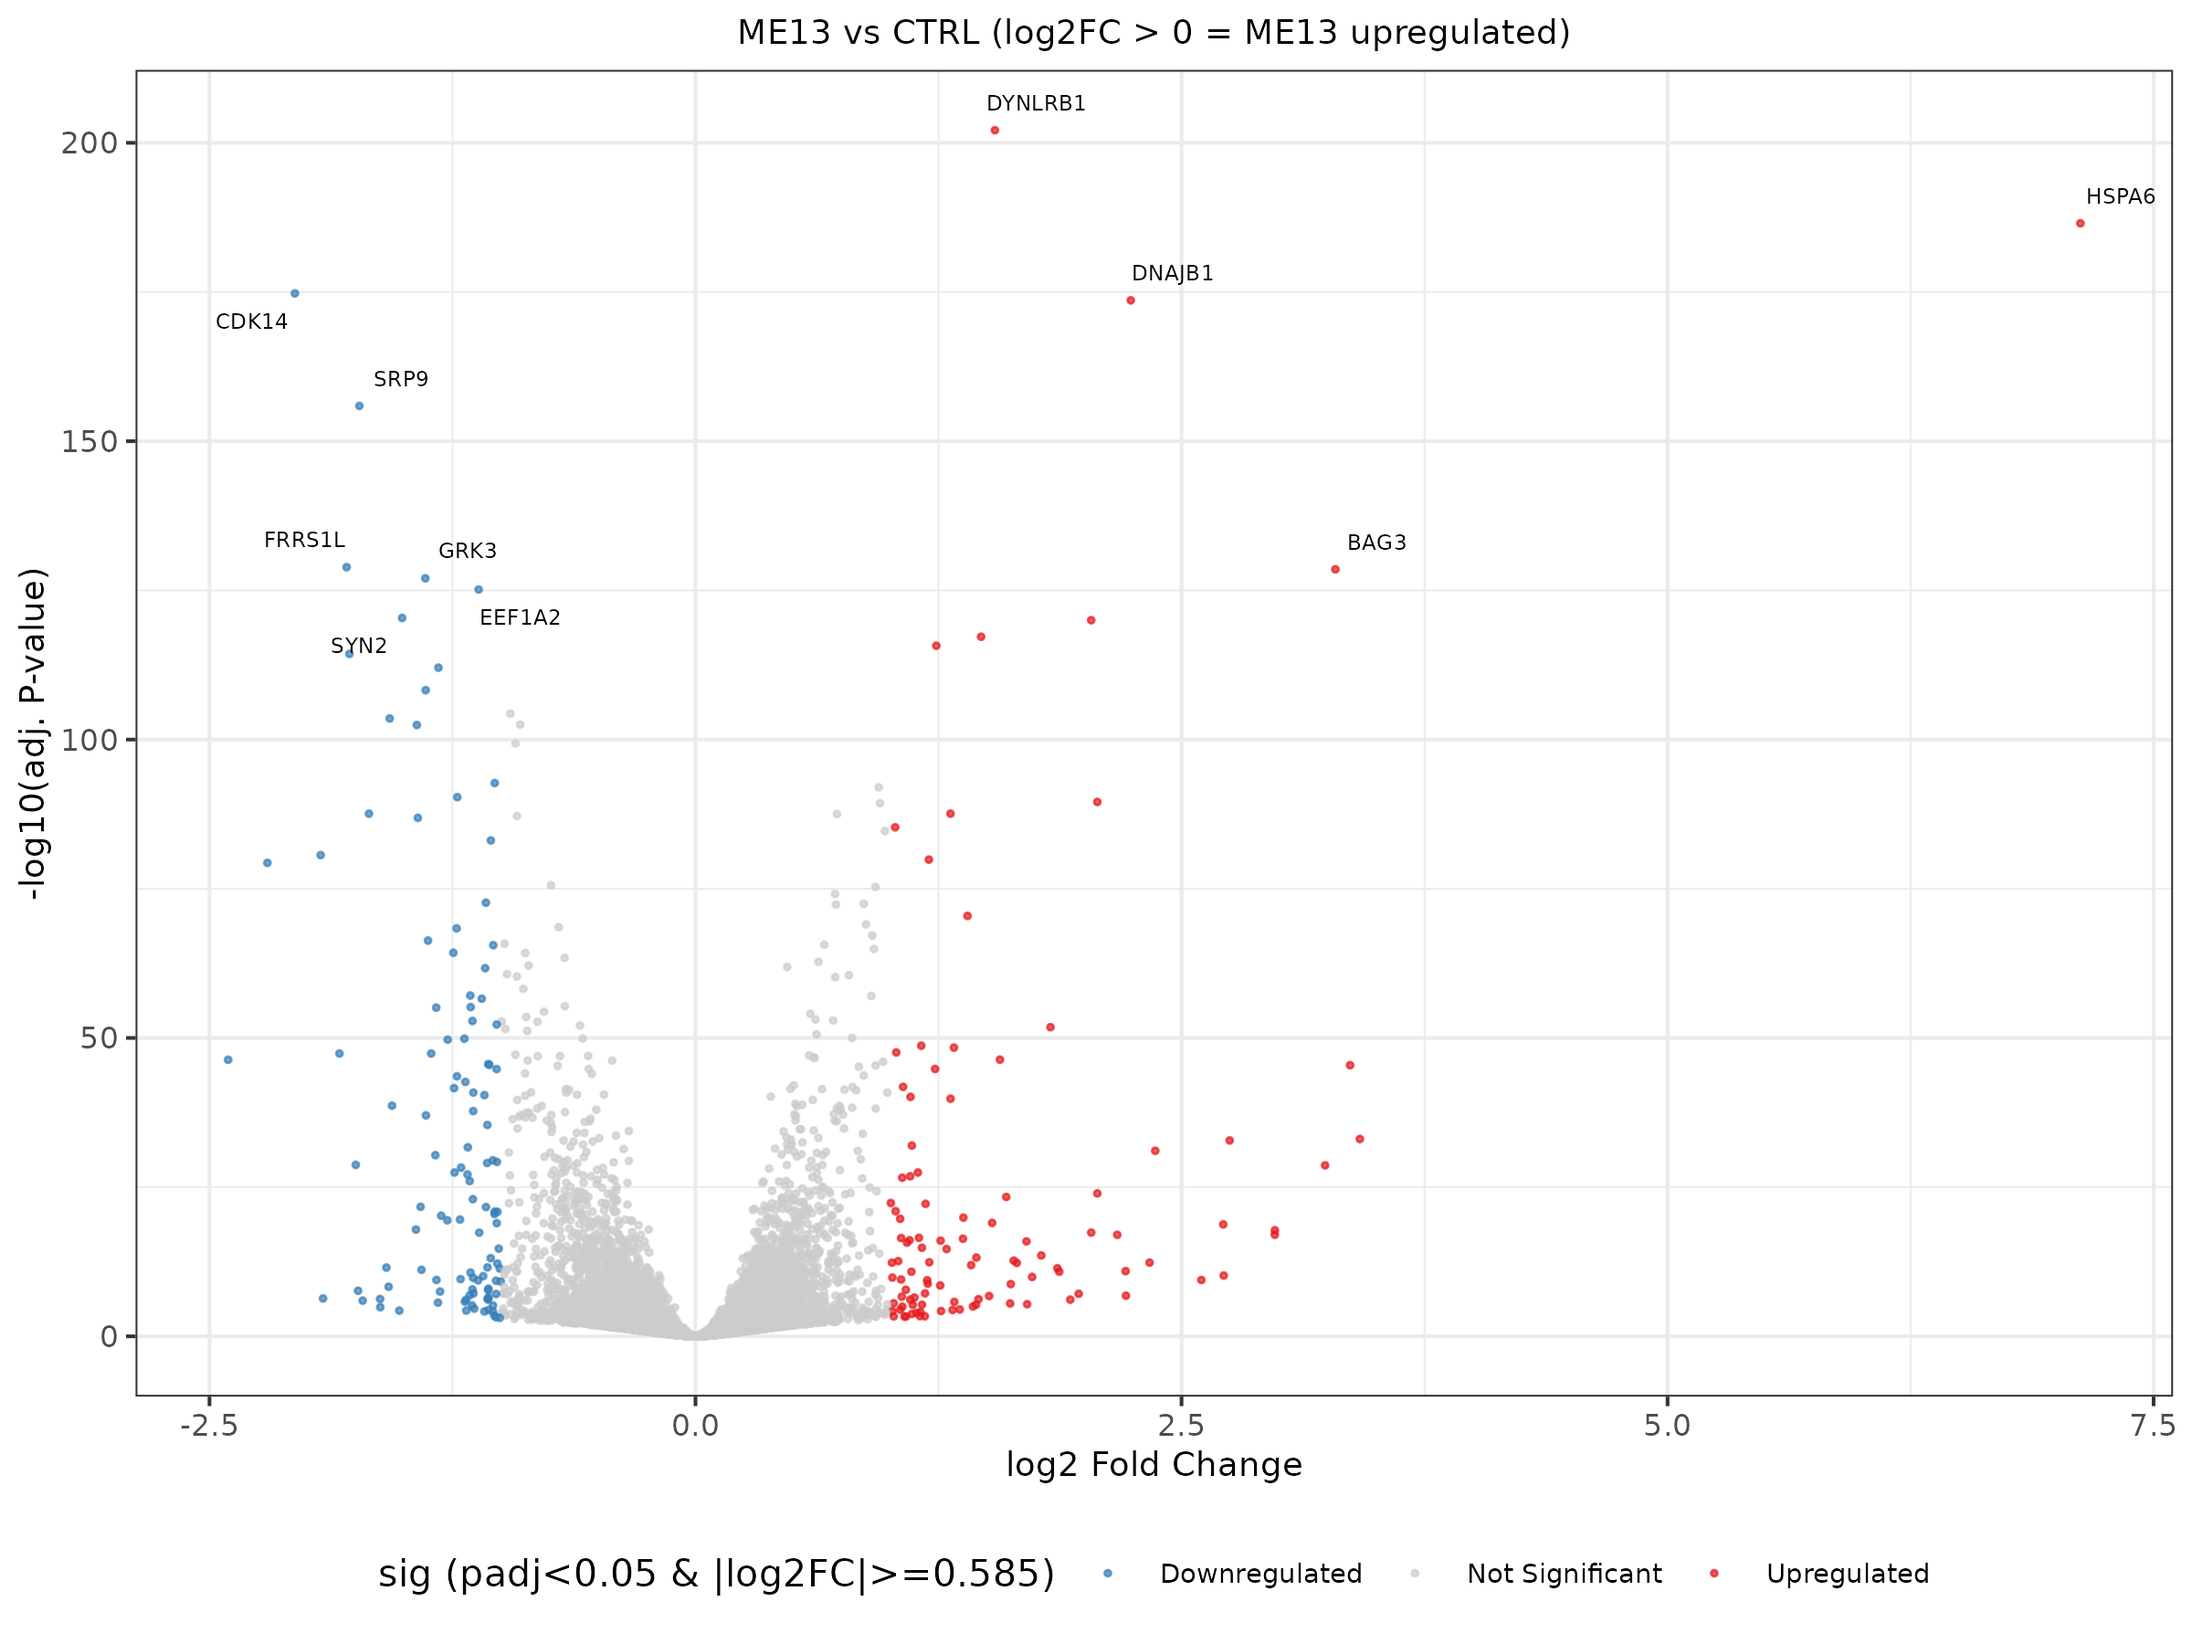
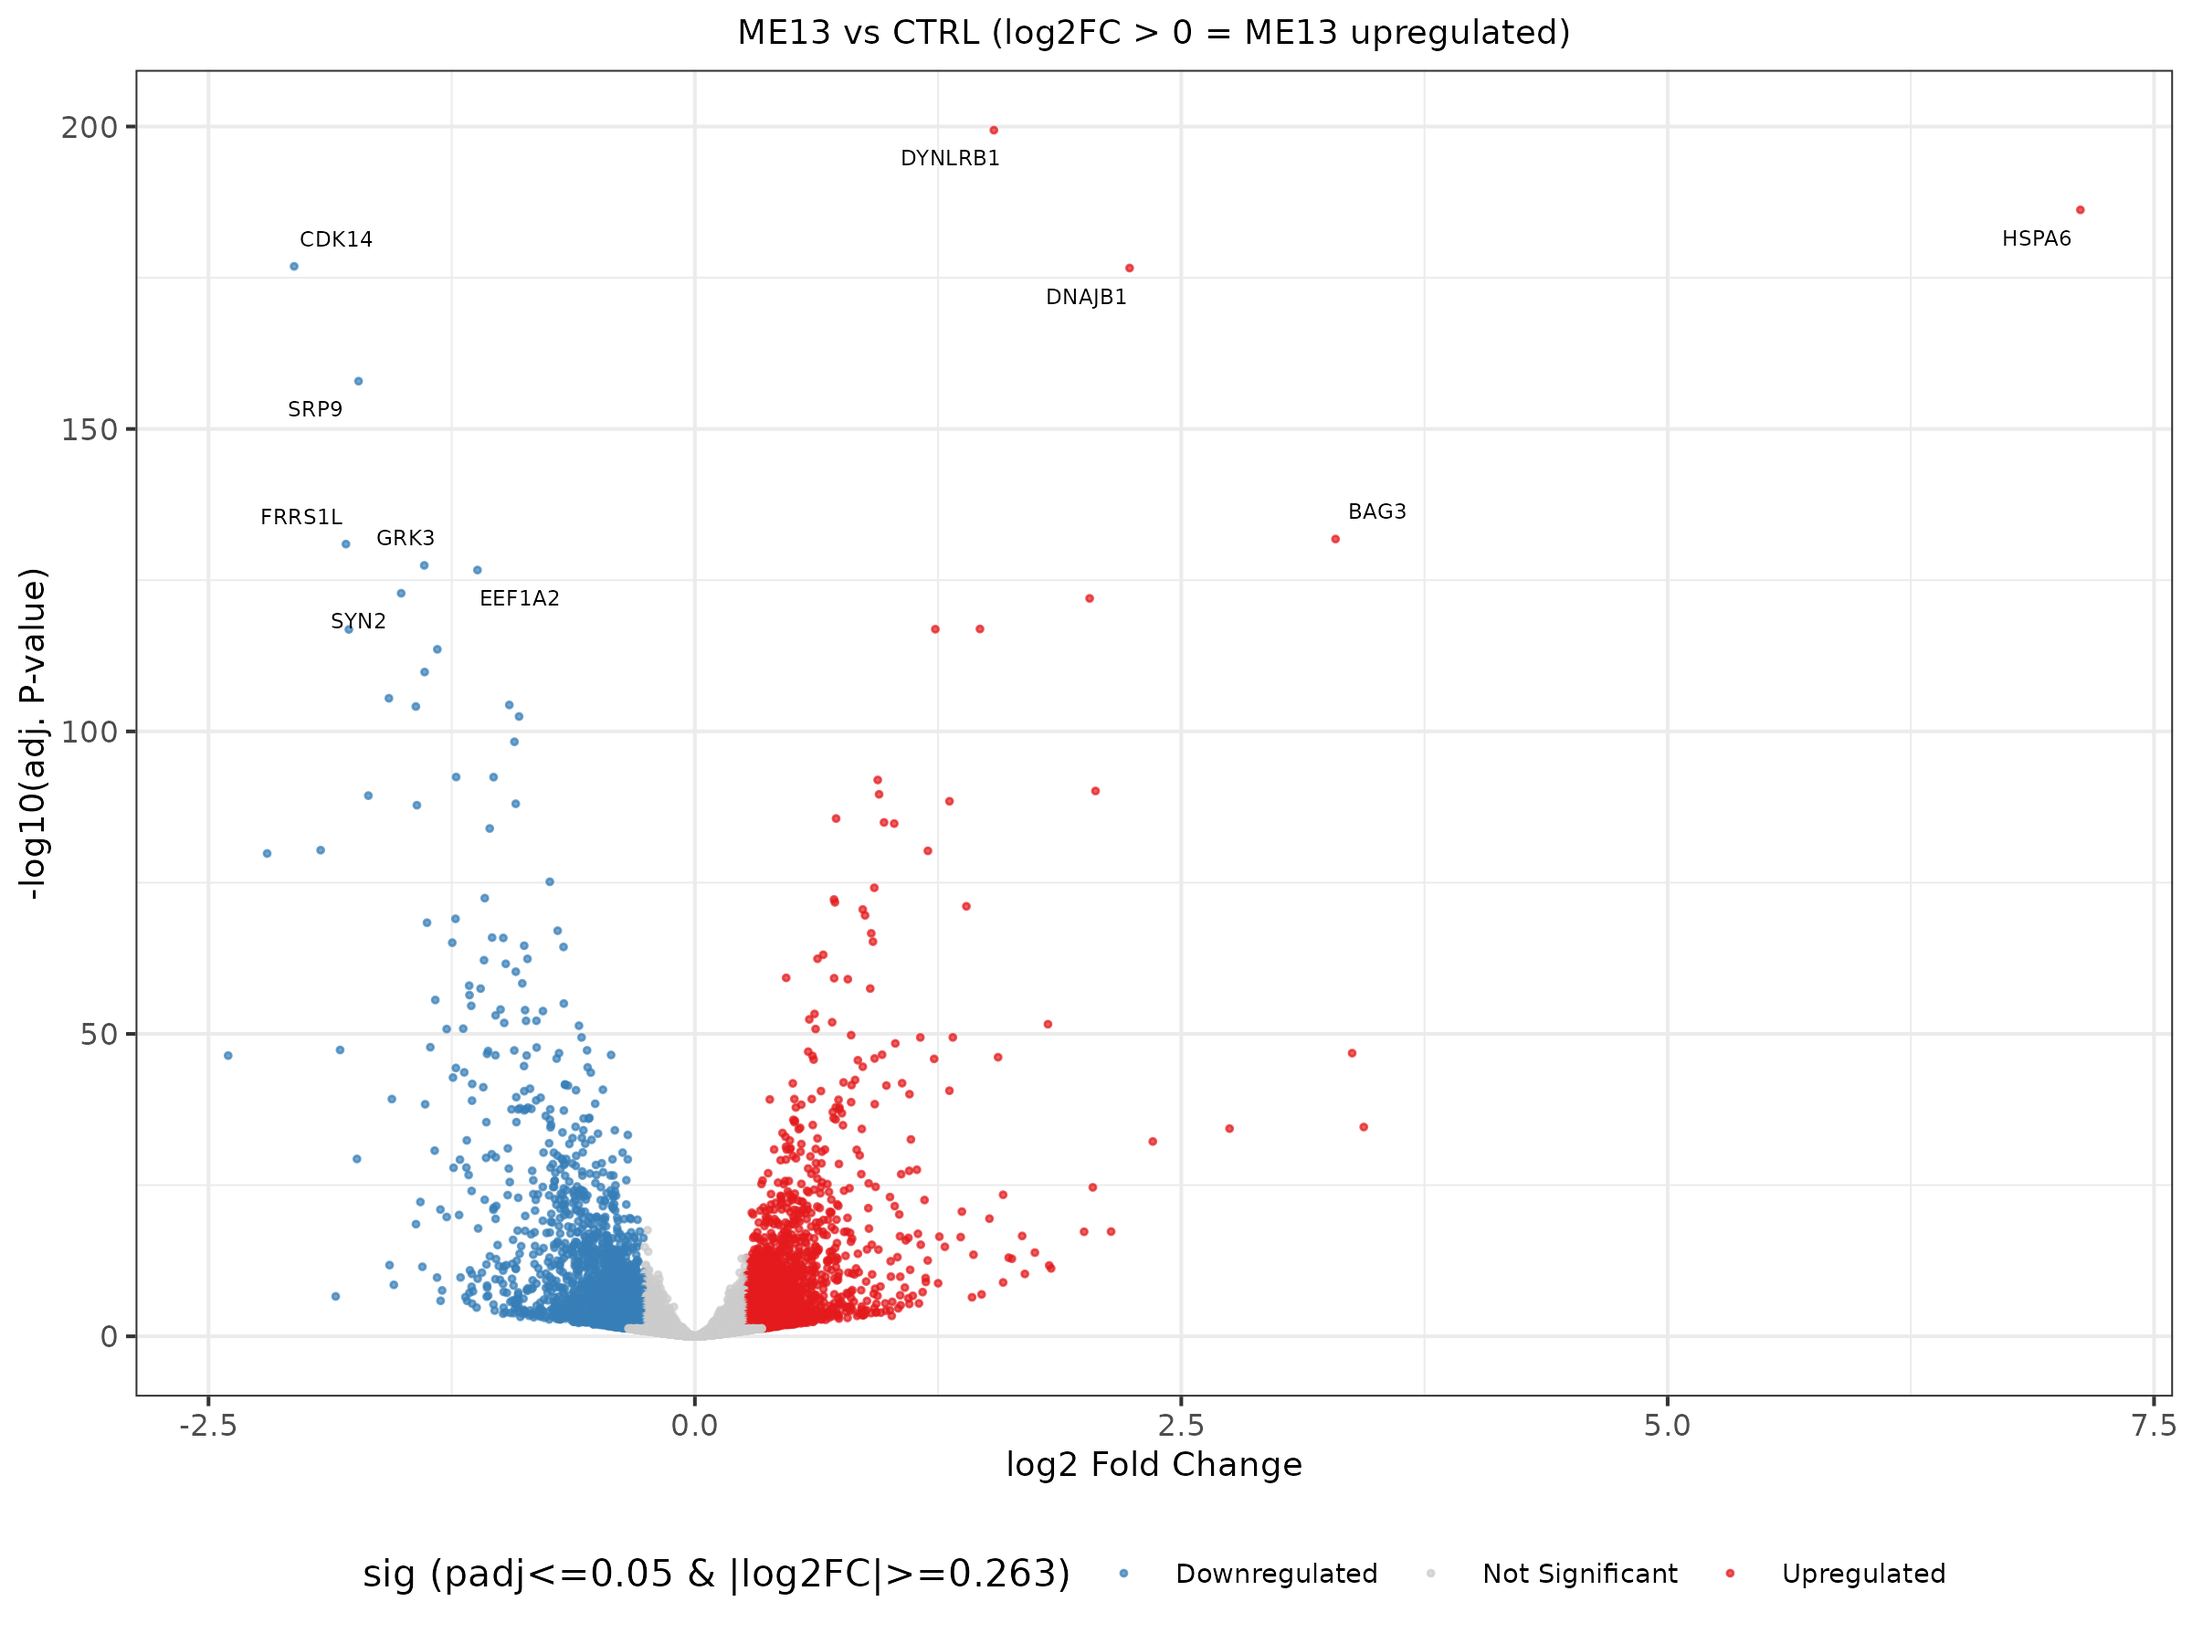
H

diff --git a/2026_Item16_ZhenYan/Data_Analysis/DE_PCA_Results/Bioinformatics_Analysis_Report.md b/2026_Item16_ZhenYan/Data_Analysis/DE_PCA_Results/Bioinformatics_Analysis_Report.md
@@ -1,13 +1,13 @@
 # Bioinformatics Analysis Report
 
-Date: 2026-06-04
+Date: 2026-06-05
 Project: 2026_Item16_ZhenYan
 
 ## 1. Overview
 This report summarizes the differential expression analysis and quality control metrics for the RNA-seq dataset.
 - **Analysis Tool**: DESeq2
 - **Normalization**: VST (Variance Stabilizing Transformation) for PCA/Heatmap, Median-of-ratios for DE
-- **Significance Thresholds**: padj < 0.05, |log2FoldChange| >= 0.585
+- **Significance Thresholds**: padj <= 0.05, |log2FoldChange| >= 0.263 (20% fold change)
 
 ## 2. Quality Control (QC)
 - QC reports were generated using MultiQC.
@@ -15,21 +15,21 @@ This report summarizes the differential expression analysis and quality control 
 ## 3. Differential Expression Analysis Results
 
 ### Contrast: SMA4_vs_CTRL
-- Total Significant Genes: 143
-  - Upregulated: 41
-  - Downregulated: 102
+- Total Significant Genes: 3328
+  - Upregulated: 1601
+  - Downregulated: 1727
 - Output File: `DEG_SMA4_vs_CTRL.csv`
 
 ### Contrast: SMC2_vs_CTRL
-- Total Significant Genes: 250
-  - Upregulated: 85
-  - Downregulated: 165
+- Total Significant Genes: 4135
+  - Upregulated: 2040
+  - Downregulated: 2095
 - Output File: `DEG_SMC2_vs_CTRL.csv`
 
 ### Contrast: ME13_vs_CTRL
-- Total Significant Genes: 220
-  - Upregulated: 106
-  - Downregulated: 114
+- Total Significant Genes: 3750
+  - Upregulated: 1759
+  - Downregulated: 1991
 - Output File: `DEG_ME13_vs_CTRL.csv`
 
 ## 4. Visualizations
